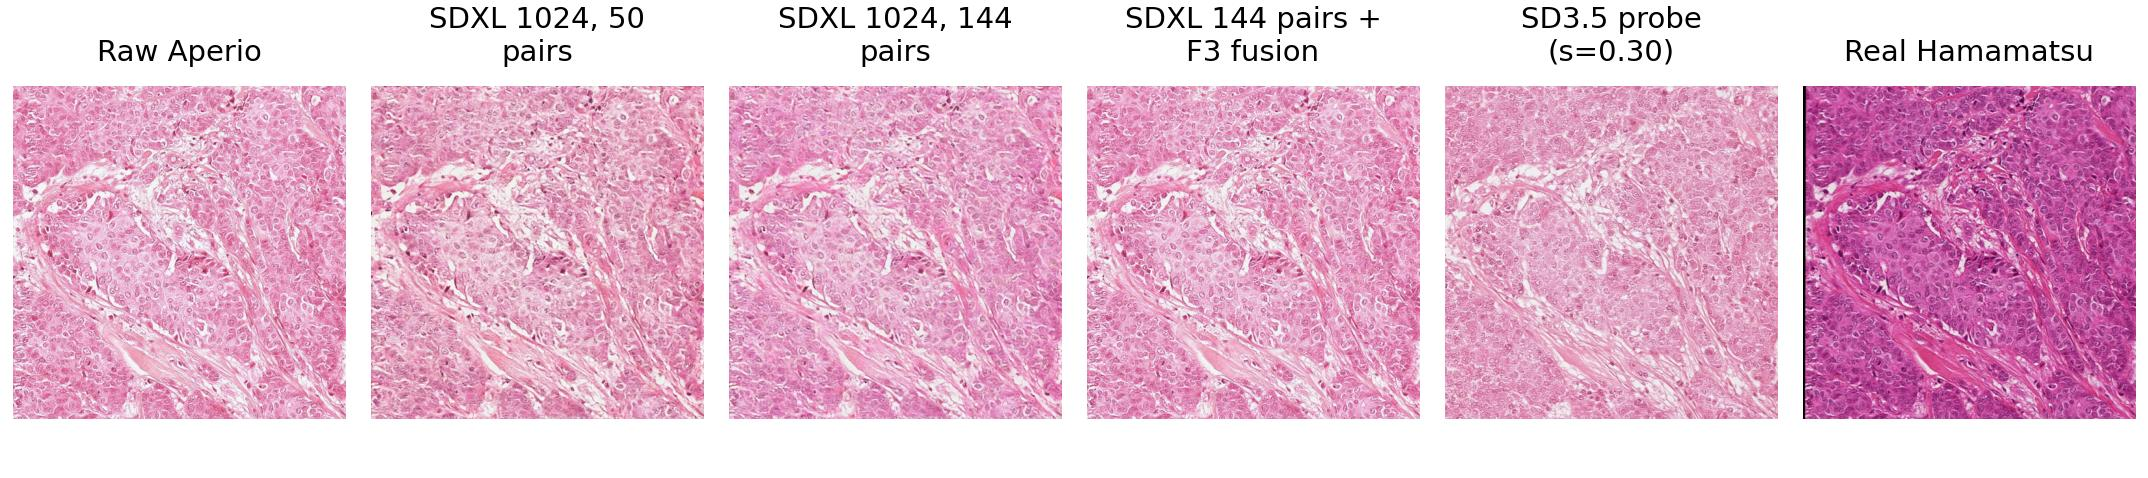
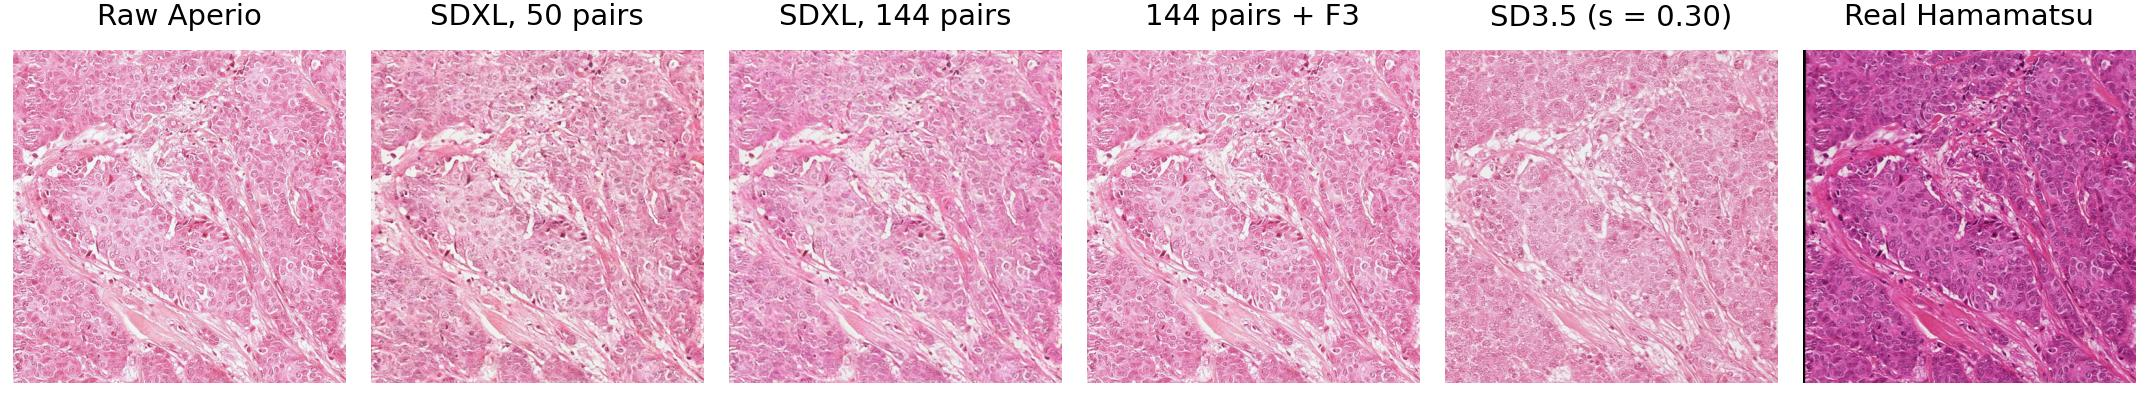
Paper Fig. 6 redrawn at print width with short one-line titles (SD3.5 appendix panel matches); P1-17 tickets corrected to inconclusive (baseline covered 4 of the 20 grid crops; on those 4 the grid scored 0.184-0.195 vs 0.162)

diff --git a/docs/report/make_cluster_figures.py b/docs/report/make_cluster_figures.py
@@ -14,6 +14,10 @@ def aperio(slide):
     Image.MAX_IMAGE_PIXELS = None
     return Image.open(TIFF.format(s=slide)).convert("RGB").crop((0, 0, 1024, 1024))
 
+# Short one-line titles for the print-width panels, so the figure stays shallow.
+SHORT = {"SDXL 1024, 50 pairs": "SDXL, 50 pairs", "SDXL 1024, 144 pairs": "SDXL, 144 pairs",
+         "SDXL 144 pairs + F3 fusion": "144 pairs + F3", "SD3.5 probe (s=0.30)": "SD3.5 (s = 0.30)"}
+
 def panel(slide, extra, name, width=None):
     """width (inches): draw at the printed width so 7 pt titles print at 7 pt; None keeps the old size."""
     c = f"{slide}_00A_x0_y0"
@@ -26,15 +30,15 @@ def panel(slide, extra, name, width=None):
     if width is None:
         fig, axs = plt.subplots(1, len(tiles), figsize=(2.6*len(tiles), 3.0))
     else:  # constrained layout leaves room for the wrapped two-line titles
-        fig, axs = plt.subplots(1, len(tiles), figsize=(width, width / len(tiles) + 0.4), layout="constrained")
+        fig, axs = plt.subplots(1, len(tiles), figsize=(width, width / len(tiles) + 0.16), layout="constrained")
     for ax, (t, im) in zip(axs, tiles):
-        t = t if width is None else textwrap.fill(t, 18)
+        t = t if width is None else SHORT.get(t, t)
         ax.imshow(im.convert("RGB").resize((512, 512))); ax.set_title(t, fontsize=7); ax.axis("off")
     if width is None:
         plt.tight_layout(pad=0.3)
     fig.savefig(OUT/name, dpi=130 if width is None else 300); plt.close(fig)
 
-panel("A08", [], "sdxl_panel_a08.jpg")
+panel("A08", [], "sdxl_panel_a08.jpg", width=7.16)  # main-text Fig. 6, drawn at print width
 panel("A06", [("SD3.5 probe (s=0.30)", Image.open(RAW/"sd35_A06_00A_x0_y0.png"))], "sdxl_sd35_panel_a06.jpg", width=7.16)
 
 # One labelled row: cam_raw_patch is the same centre-0 patch P2-10 used, so its SD1.5 output sits alongside

diff --git a/tickets/PHASE1-TICKETS.md b/tickets/PHASE1-TICKETS.md
@@ -2384,6 +2384,9 @@ traded for fidelity.
 
 ## P1-17 — Differential Diffusion change-map inference (spatially-varying strength)
 
+**Correction (2026-11-09, paper number audit): the "negative result" verdict below is not supported; the result is INCONCLUSIVE.** The six grid configs were scored on 20 training crops, but the P1-10 baseline they are compared with (0.1616 ± 0.0057, job 47235, 3 seeds) was scored on only 4 of those crops (A03_00A_c000, A03_00A_c024, A03_00A_c048, A03_00B_c001; `docs/results/p1_17_differential_diffusion/eval/p1_10_baseline_summary/per_crop.csv`, 12 rows). On those same 4 crops the grid configs score SSIM 0.184–0.195 against the baseline's 0.162 (0.159 for seed 0), i.e. +0.02–0.03, and the 4-crop smoke result (0.192) dismissed below as noise was in fact the like-for-like comparison. No matched 20-crop baseline was ever run, so neither "no gain" nor "gain" is established. The paper (Appendix A, Fig. 12) now reports it as inconclusive and not pursued, because its output is still decoded by the VAE and so cannot pass the reconstruction ceiling, which is what motivated fusion outside the U-Net (P1-16). A matched 20-crop P1-10 baseline (inference only, same crops and seeds) would settle it if ever needed.
+
+
 **Status:** ✅ CLOSED (2026-08-27) — negative result. Internal-validation
 parameter grid (radius ∈ {2,4,8} × c_max ∈ {0.50,0.70}, sigma=2/c_min=0.0
 fixed, 20 training crops each) landed within roughly one baseline-seed-stdev

diff --git a/tickets/P1-17_differential_diffusion_change_map.md b/tickets/P1-17_differential_diffusion_change_map.md
@@ -1,5 +1,8 @@
 # P1-17 — Differential Diffusion Change-Map Inference (Spatially-Varying Strength)
 
+**Correction (2026-11-09, paper number audit): the "negative result" verdict below is not supported; the result is INCONCLUSIVE.** The six grid configs were scored on 20 training crops, but the P1-10 baseline they are compared with (0.1616 ± 0.0057, job 47235, 3 seeds) was scored on only 4 of those crops (A03_00A_c000, A03_00A_c024, A03_00A_c048, A03_00B_c001; `docs/results/p1_17_differential_diffusion/eval/p1_10_baseline_summary/per_crop.csv`, 12 rows). On those same 4 crops the grid configs score SSIM 0.184–0.195 against the baseline's 0.162 (0.159 for seed 0), i.e. +0.02–0.03, and the 4-crop smoke result (0.192) dismissed below as noise was in fact the like-for-like comparison. No matched 20-crop baseline was ever run, so neither "no gain" nor "gain" is established. The paper (Appendix A, Fig. 12) now reports it as inconclusive and not pursued, because its output is still decoded by the VAE and so cannot pass the reconstruction ceiling, which is what motivated fusion outside the U-Net (P1-16). A matched 20-crop P1-10 baseline (inference only, same crops and seeds) would settle it if ever needed.
+
+
 **Status:** ✅ CLOSED (2026-08-27) — negative result. Internal-validation
 parameter grid (radius × c_max, sigma=2/c_min=0.0 fixed) showed no real
 improvement over the plain P1-10 baseline; see full results and
